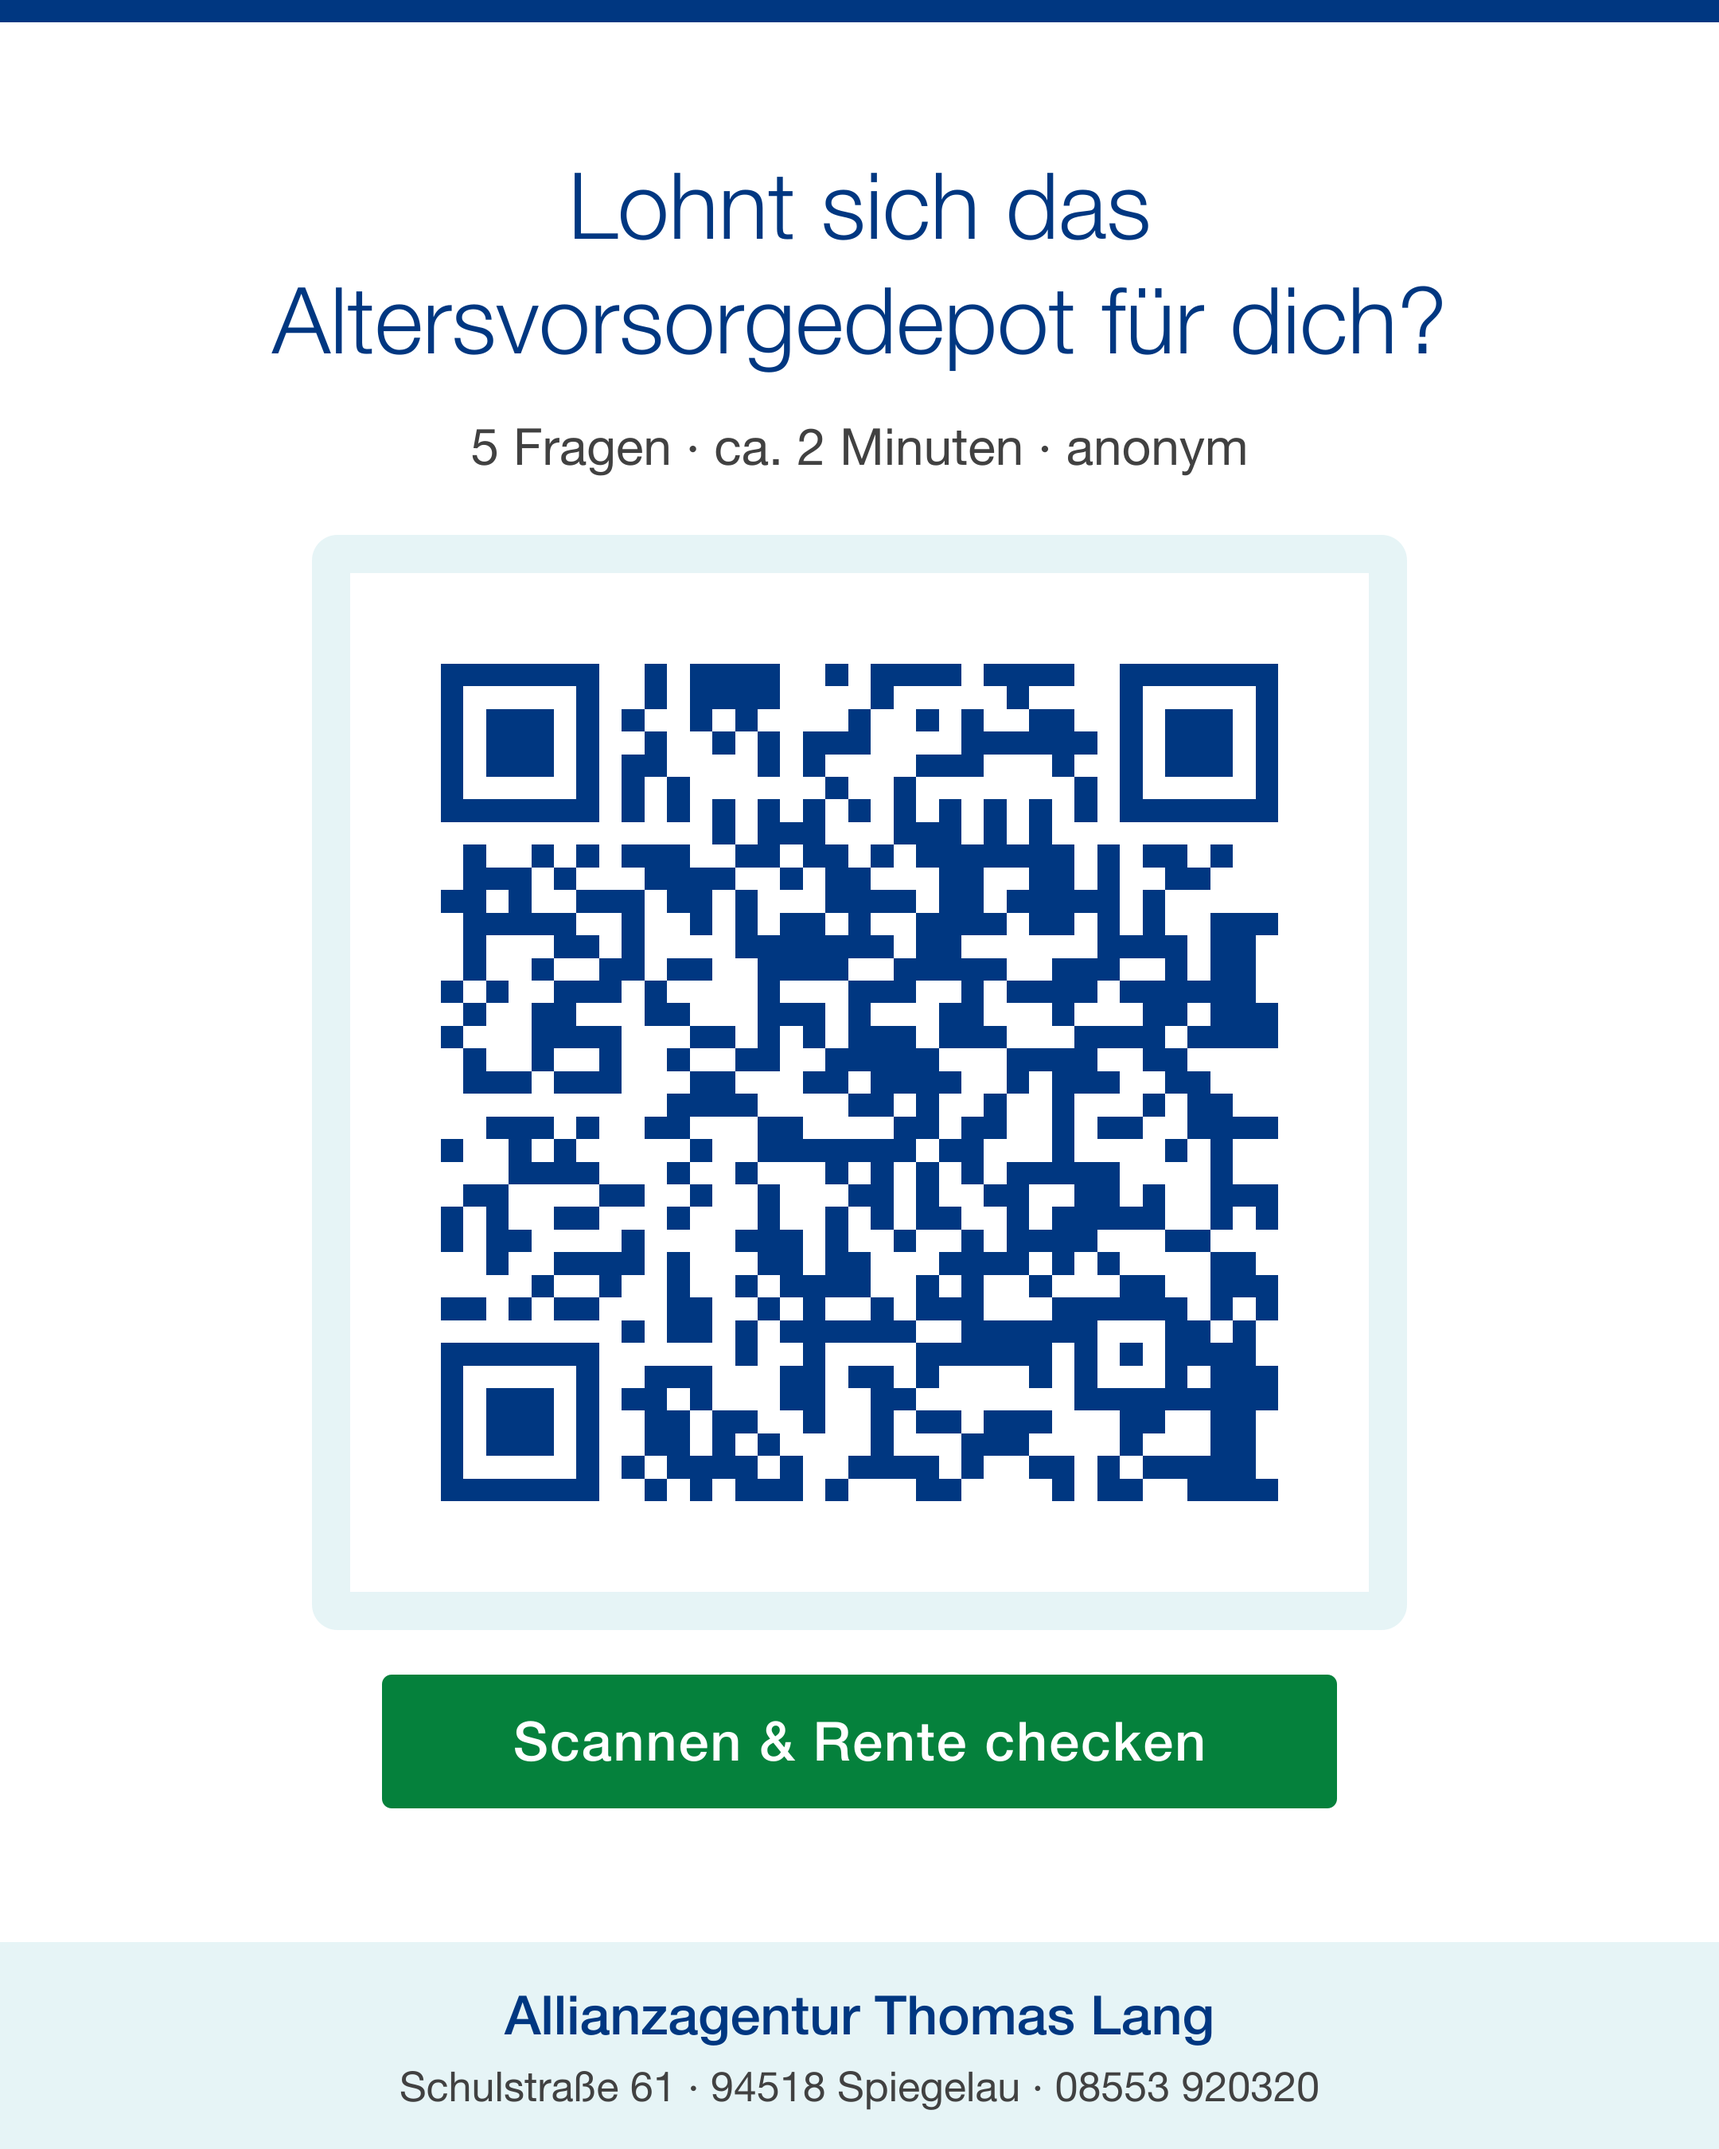
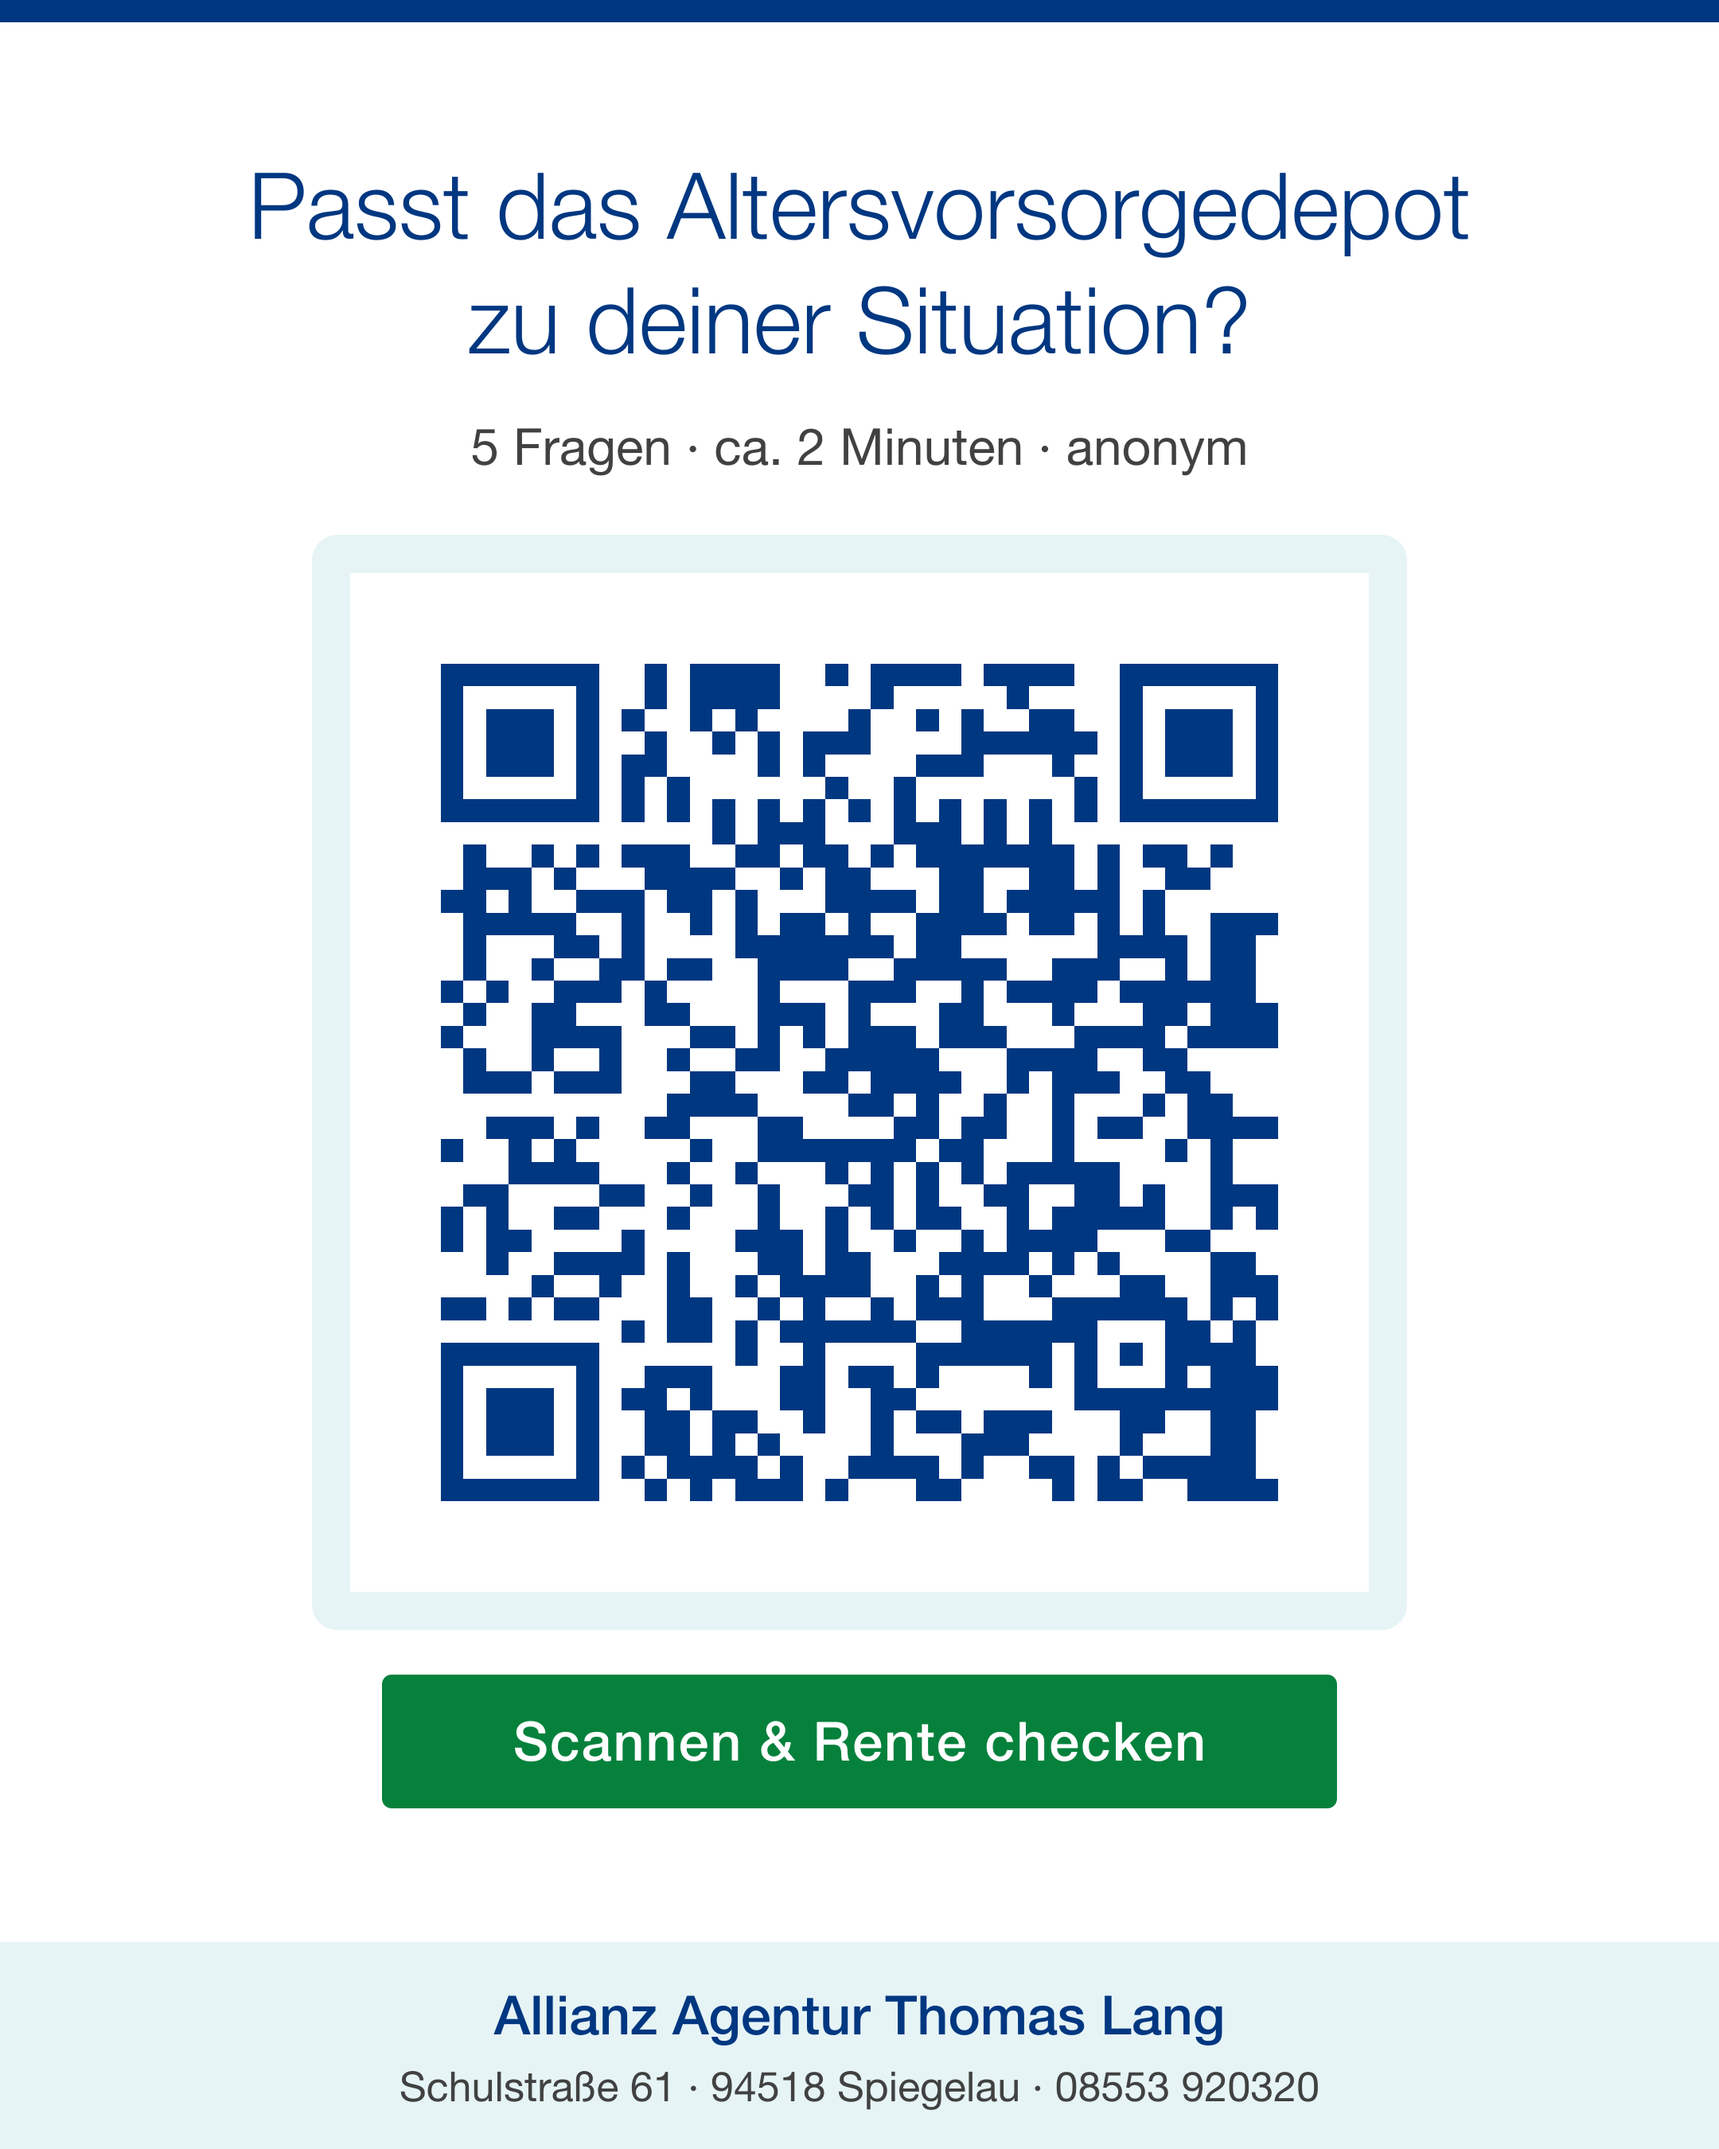
Startseite: neuer Titel, größere Schrift, „Allianz Agentur Thomas Lang“
- Überschrift „Passt das Altersvorsorgedepot zu deiner Situation?“
  (auch Browser-Tab, Seitenbeschreibung und README)
- Größere Schrift auf der Startseite
- Agenturname „Allianz Agentur Thomas Lang“
- QR-Aushangkarte mit neuem Titel und Namen neu erzeugt

Changed region(s): [[0.1551, 0.0622, 0.8375, 0.1867], [0.2792, 0.9333, 0.7134, 0.9644]]

diff --git a/index.html b/index.html
@@ -4,9 +4,9 @@
     <meta charset="UTF-8" />
     <meta name="viewport" content="width=device-width, initial-scale=1" />
     <meta name="referrer" content="no-referrer" />
-    <meta name="description" content="5 kurze Fragen, ca. 2 Minuten: Wie viel gesetzliche Rente kannst du erwarten – und lohnt sich das Altersvorsorgedepot für dich?" />
+    <meta name="description" content="5 kurze Fragen, ca. 2 Minuten: Wie viel gesetzliche Rente kannst du erwarten – und passt das Altersvorsorgedepot zu deiner Situation?" />
     <link rel="icon" href="data:," />
-    <title>Rentencheck: Lohnt sich das Altersvorsorgedepot für dich?</title>
+    <title>Rentencheck: Passt das Altersvorsorgedepot zu deiner Situation?</title>
   </head>
   <body>
     <div id="app">

diff --git a/src/styles.css b/src/styles.css
@@ -256,8 +256,27 @@ a {
   color: var(--color-muted);
 }
 
+/* Startseite: größere Schrift als auf den Fragen */
+.screen-start h1 {
+  font-size: 2.125rem;
+  line-height: 1.2;
+}
+
+.screen-start .lead {
+  font-size: 1.25rem;
+}
+
+.screen-start .privacy-note {
+  font-size: 1.0625rem;
+}
+
+.screen-start .disclaimer {
+  font-size: 0.9375rem;
+}
+
 .screen-start .button {
   margin: 0.5rem 0 1.25rem;
+  font-size: 1.1875rem;
 }
 
 .disclaimer {
@@ -675,6 +694,14 @@ a {
 
   h1 {
     font-size: 2.25rem;
+  }
+
+  .screen-start h1 {
+    font-size: 2.75rem;
+  }
+
+  .screen-start .lead {
+    font-size: 1.375rem;
   }
 
   .question-title {

diff --git a/src/config.ts b/src/config.ts
@@ -2,7 +2,7 @@
 // Nach jeder Änderung: `npm run build` und den Ordner dist/ neu hochladen.
 
 export const config = {
-  agencyName: "Allianzagentur Thomas Lang",
+  agencyName: "Allianz Agentur Thomas Lang",
   agencyLocation: "Spiegelau", // Ort der Agentur (Einladung bei Frage 5)
   logoUrl: "", // TODO: von der Agentur ausfüllen – leer = kein Logo (Logo-Datei am besten in den Ordner public/ legen, z. B. "logo.svg")
   // Frage 5: Allianz-vor-Ort-Seiten der Agentur (öffnen sich in einem neuen Tab)

diff --git a/src/content/copy.ts b/src/content/copy.ts
@@ -3,7 +3,7 @@
 
 export const copy = {
   start: {
-    title: "Lohnt sich das Altersvorsorgedepot für dich?",
+    title: "Passt das Altersvorsorgedepot zu deiner Situation?",
     subtitle:
       "5 kurze Fragen, ca. 2 Minuten. Du siehst direkt, wie viel gesetzliche Rente du ungefähr erwarten kannst – und welche Vorsorge zu dir passt.",
     privacyNote:

diff --git a/README.md b/README.md
@@ -1,4 +1,4 @@
-# Rentencheck „Lohnt sich das Altersvorsorgedepot für dich?“
+# Rentencheck „Passt das Altersvorsorgedepot zu deiner Situation?“
 
 Ein kleines Web-Tool: 5 Fragen, ca. 2 Minuten. Es zeigt, wie viel gesetzliche Rente man ungefähr erwarten kann, fragt nach Zielen und Vorsorge-Wunsch und führt zum kostenlosen Orientierungsgespräch.
 
